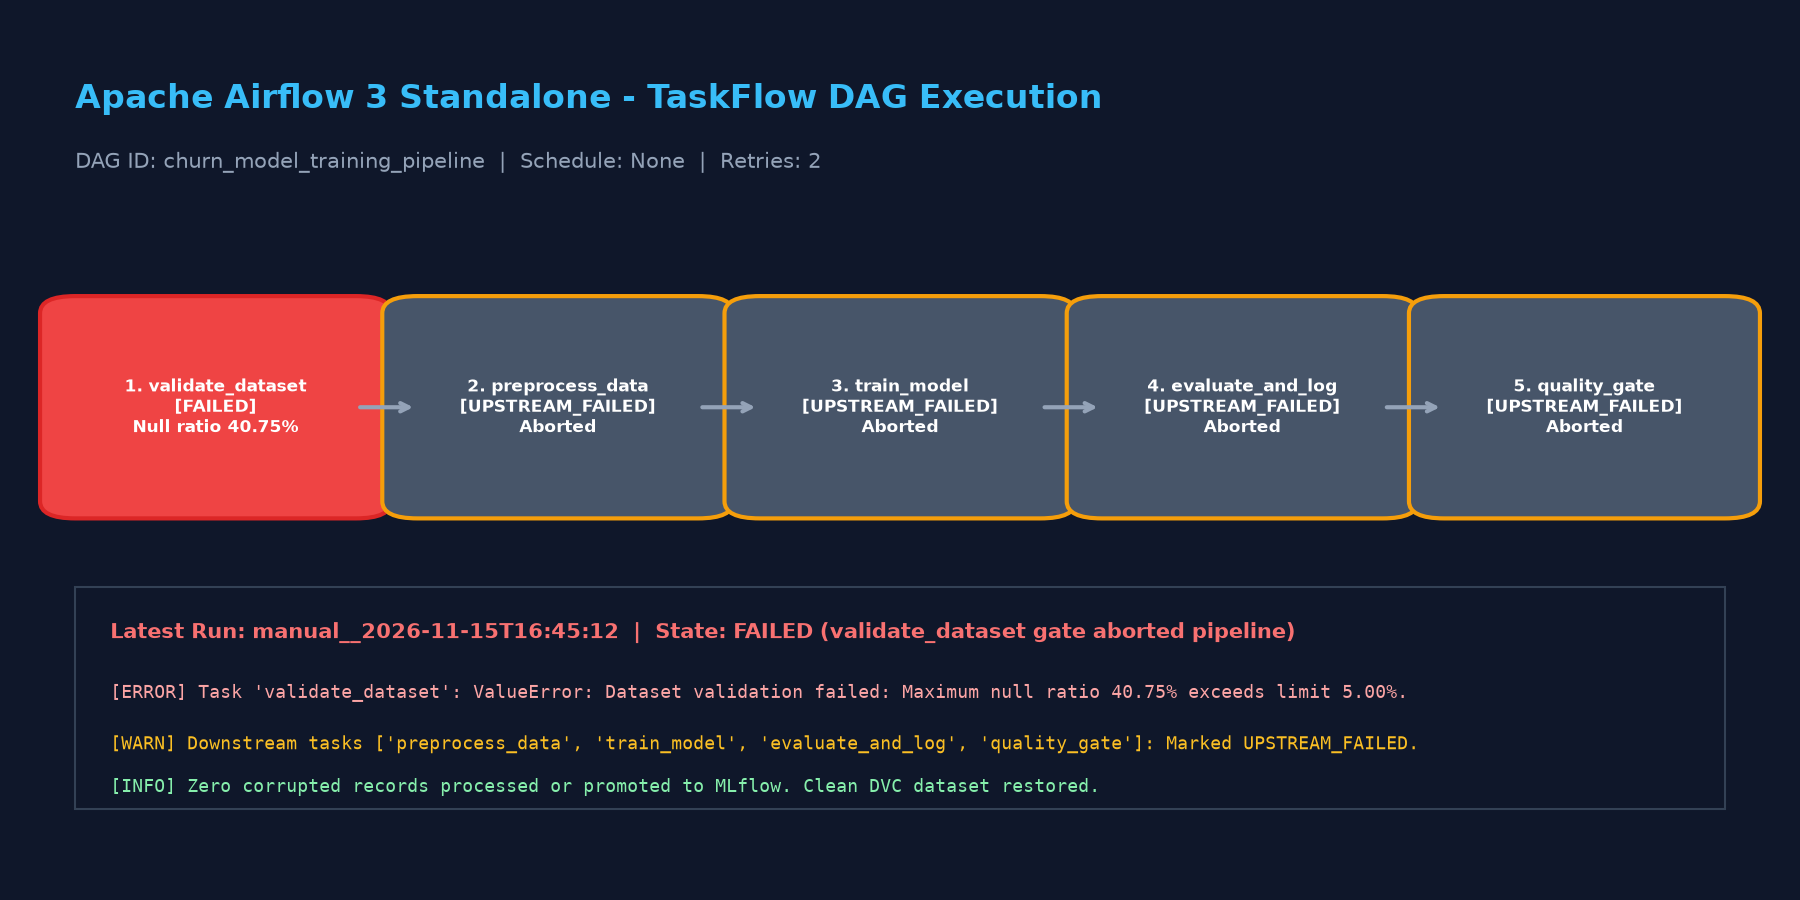
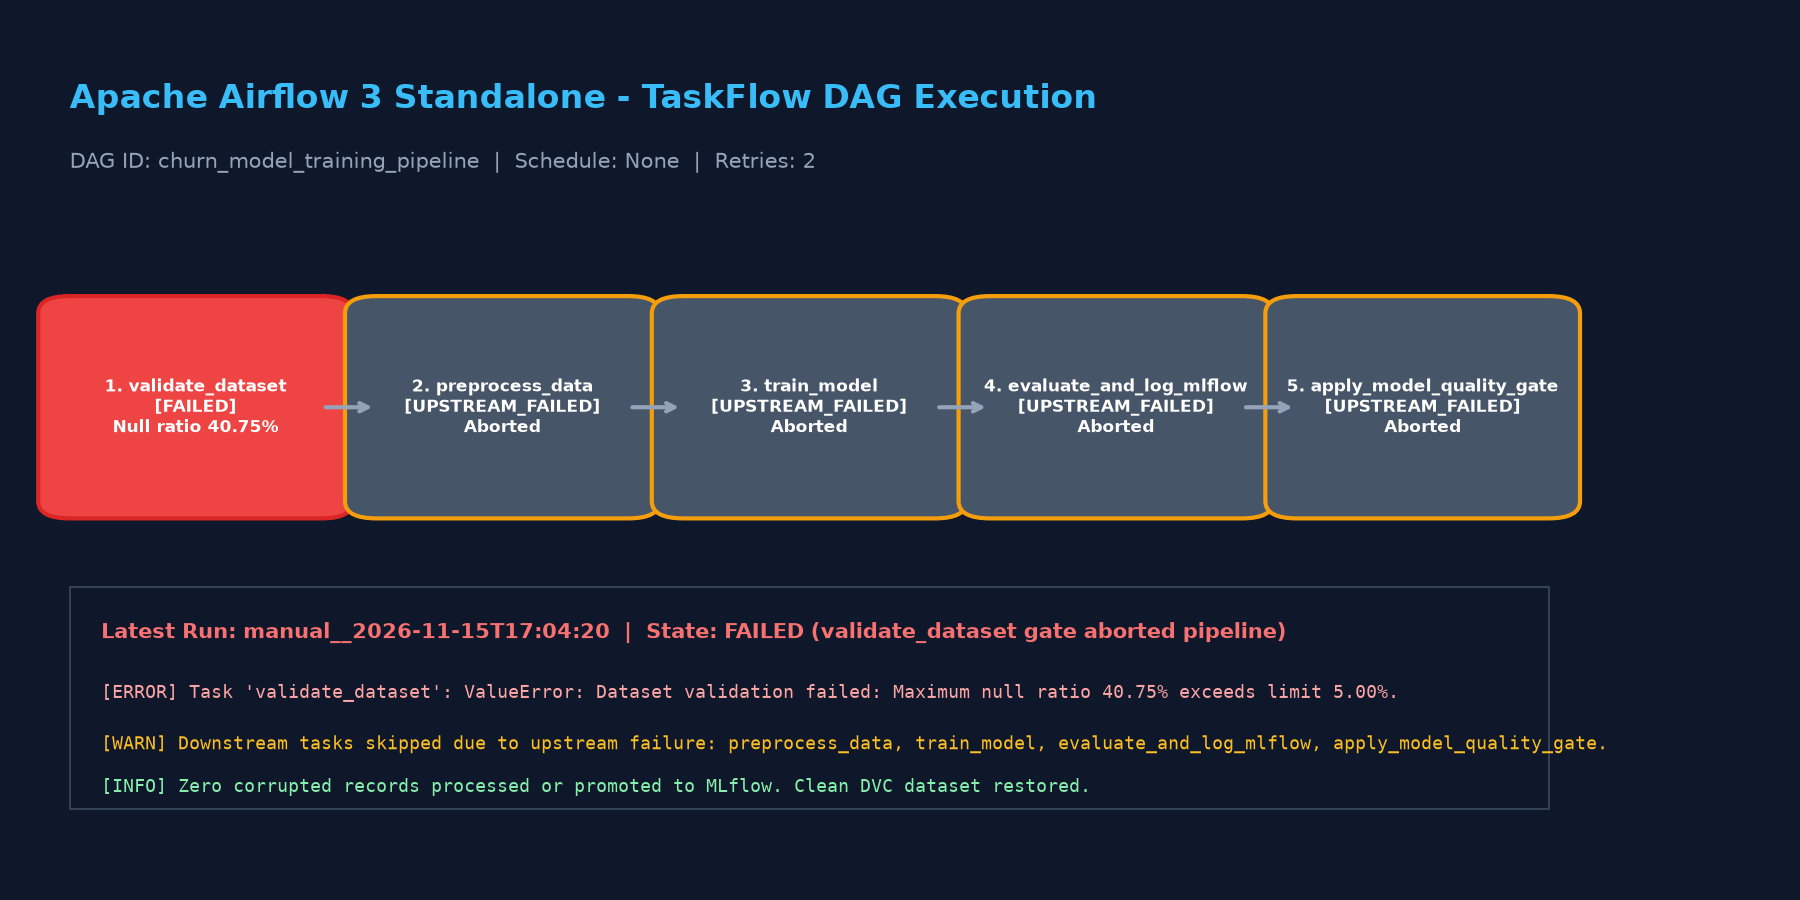
chore(release): finalize production readiness polish, licensing, and architecture documentation
- Filter upstream_failed Airflow tasks, query execution logs using dynamic try_number, and format clean skip statements

- Add MIT LICENSE file and pyproject.toml license metadata

- Embed Mermaid system architecture diagram in README.md

- Synchronize scripts/generate_screenshots.py and evaluation report with live telemetry

- Add unit test verifying failed vs upstream_failed task separation in test_airflow_tools.py

diff --git a/tests/test_airflow_tools.py b/tests/test_airflow_tools.py
@@ -31,3 +31,54 @@ def test_airflow_api_timeout_handling() -> None:
         assert res.success is False
         assert res.data is None
         assert "timeout" in res.error.lower()
+
+
+def test_get_task_instances_separates_failed_and_upstream_failed() -> None:
+    """Verify get_task_instances distinguishes between failed tasks and downstream upstream_failed tasks."""
+    mock_payload = {
+        "task_instances": [
+            {
+                "task_id": "validate_dataset",
+                "state": "failed",
+                "try_number": 1,
+                "start_date": "2026-11-15T16:00:00Z",
+                "end_date": "2026-11-15T16:00:05Z",
+                "duration": 5.0,
+            },
+            {
+                "task_id": "preprocess_data",
+                "state": "upstream_failed",
+                "try_number": 0,
+                "start_date": None,
+                "end_date": None,
+                "duration": None,
+            },
+            {
+                "task_id": "train_model",
+                "state": "upstream_failed",
+                "try_number": 0,
+                "start_date": None,
+                "end_date": None,
+                "duration": None,
+            },
+            {
+                "task_id": "load_data",
+                "state": "success",
+                "try_number": 1,
+                "start_date": "2026-11-15T15:59:50Z",
+                "end_date": "2026-11-15T15:59:59Z",
+                "duration": 9.0,
+            },
+        ]
+    }
+    with patch("httpx.get") as mock_get:
+        mock_resp = httpx.Response(200, json=mock_payload, request=httpx.Request("GET", "http://test"))
+        mock_get.return_value = mock_resp
+        res = airflow_tools.get_task_instances(dag_id="churn_model_training_pipeline", dag_run_id="run_123")
+        assert res.success is True
+        assert res.data is not None
+        assert res.data["failed_tasks"] == ["validate_dataset"]
+        assert res.data["upstream_failed_tasks"] == ["preprocess_data", "train_model"]
+        assert len(res.data["tasks"]) == 4
+        assert res.data["tasks"][0]["try_number"] == 1
+        assert res.data["tasks"][1]["try_number"] == 0

diff --git a/agent/orchestrator.py b/agent/orchestrator.py
@@ -633,13 +633,21 @@ class MLOpsAgentOrchestrator:
                         if tasks_res.success and tasks_res.data:
                             failed_tasks = tasks_res.data.get("failed_tasks", [])
                             upstream_failed = tasks_res.data.get("upstream_failed_tasks", [])
+                            tasks_summary = tasks_res.data.get("tasks", [])
+                            task_tries = {
+                                t.get("task_id"): int(t.get("try_number") or 1)
+                                for t in tasks_summary
+                                if isinstance(t, dict) and t.get("task_id")
+                            }
                             if failed_tasks:
                                 for ft in failed_tasks:
+                                    actual_try = task_tries.get(ft, 1)
                                     log_res = self.execute_tool(
                                         "airflow_get_failed_task_logs",
                                         dag_id="churn_model_training_pipeline",
                                         dag_run_id=latest_id,
                                         task_id=ft,
+                                        try_number=actual_try,
                                     )
                                     tools_executed.append(log_res)
                                     evidence.append(
@@ -653,8 +661,9 @@ class MLOpsAgentOrchestrator:
                                         f"Airflow task '{ft}' failed during execution of pipeline run '{latest_id}'."
                                     )
                             if upstream_failed:
+                                skipped_tasks = ", ".join(upstream_failed)
                                 known_facts.append(
-                                    f"Downstream Airflow tasks {upstream_failed} were aborted due to upstream failure."
+                                    f"Downstream tasks skipped due to upstream failure: {skipped_tasks}."
                                 )
                 else:
                     uncertainties.append("No recorded DAG runs found in Airflow.")

diff --git a/scripts/generate_screenshots.py b/scripts/generate_screenshots.py
@@ -125,8 +125,8 @@ def create_airflow_screenshot() -> None:
         ("1. validate_dataset\n[FAILED]\nNull ratio 40.75%", "#ef4444", "#dc2626"),
         ("2. preprocess_data\n[UPSTREAM_FAILED]\nAborted", "#475569", "#f59e0b"),
         ("3. train_model\n[UPSTREAM_FAILED]\nAborted", "#475569", "#f59e0b"),
-        ("4. evaluate_and_log\n[UPSTREAM_FAILED]\nAborted", "#475569", "#f59e0b"),
-        ("5. quality_gate\n[UPSTREAM_FAILED]\nAborted", "#475569", "#f59e0b"),
+        ("4. evaluate_and_log_mlflow\n[UPSTREAM_FAILED]\nAborted", "#475569", "#f59e0b"),
+        ("5. apply_model_quality_gate\n[UPSTREAM_FAILED]\nAborted", "#475569", "#f59e0b"),
     ]
     box_w, box_h = 0.16, 0.22
     xs = [0.03, 0.225, 0.42, 0.615, 0.81]
@@ -162,7 +162,7 @@ def create_airflow_screenshot() -> None:
     ax.text(
         0.05,
         0.28,
-        "Latest Run: manual__2026-11-15T16:45:12  |  State: FAILED (validate_dataset gate aborted pipeline)",
+        "Latest Run: manual__2026-11-15T17:04:20  |  State: FAILED (validate_dataset gate aborted pipeline)",
         fontsize=10,
         fontweight="bold",
         color="#f87171",
@@ -178,7 +178,7 @@ def create_airflow_screenshot() -> None:
     ax.text(
         0.05,
         0.15,
-        "[WARN] Downstream tasks ['preprocess_data', 'train_model', 'evaluate_and_log', 'quality_gate']: Marked UPSTREAM_FAILED.",
+        "[WARN] Downstream tasks skipped due to upstream failure: preprocess_data, train_model, evaluate_and_log_mlflow, apply_model_quality_gate.",
         fontsize=8.5,
         color="#fbbf24",
         family="monospace",

diff --git a/scripts/run_failure_injections.py b/scripts/run_failure_injections.py
@@ -43,7 +43,7 @@ def run_scenario_1_pipeline_failure() -> dict:
     print(f"Airflow trigger: {trigger_res.success}, data: {trigger_res.data}, error: {trigger_res.error}")
 
     # Wait for Airflow scheduler to execute the validation stage
-    for _ in range(6):
+    for _ in range(12):
         time.sleep(5)
         runs_res = get_dag_runs(dag_id="churn_model_training_pipeline", limit=1)
         if runs_res.success and runs_res.data:
@@ -64,7 +64,7 @@ def run_scenario_1_pipeline_failure() -> dict:
 
     # 5. Restore dataset
     restore_proc = run_cmd(["git", "checkout", "data/dataset.csv.dvc"])
-    dvc_restore = run_cmd(["dvc", "checkout", "-f"])
+    dvc_restore = run_cmd(["dvc", "checkout", "data/dataset.csv.dvc", "-f"])
     print(f"Dataset restored: git_rc={restore_proc.returncode}, dvc_rc={dvc_restore.returncode}")
 
     result = {

diff --git a/README.md b/README.md
@@ -38,6 +38,57 @@ Detailed empirical evaluation and failure injection logs are documented in [eval
 
 ---
 
+## System Architecture
+
+```mermaid
+flowchart TB
+    subgraph Clients["Clients & SRE Teams"]
+        ENG["MLOps Engineer / SRE"]
+        AUTO["Automation & CI/CD Pipelines"]
+    end
+
+    subgraph Gateway["FastAPI Control Plane Gateway"]
+        API["FastAPI REST Interface\nPOST /api/v1/chat\nGET /health"]
+    end
+
+    subgraph Agent["MLOps Agent Orchestrator"]
+        ORCH["Reasoning Orchestrator\n(Grounded Multi-Tool Planner)"]
+        GUARD["Safety & RBAC Guardrails\n- namespace: mlops-prod\n- user_confirmed=True"]
+        TELEM["Structured Telemetry\n- request_id & duration_ms\n- Secret Redaction"]
+    end
+
+    subgraph ToolModules["Tool Modules (Pydantic V2 Schemas & ToolResult)"]
+        DVC_T["DVC Tools\n(Lineage & Hashes)"]
+        MLF_T["MLflow Tools\n(Runs, Metrics & Models)"]
+        AIR_T["Airflow 3 Tools\n(DAGs, Runs & Error Logs)"]
+        K8S_T["Kubernetes Tools\n(Pods, Probes & Rollouts)"]
+    end
+
+    subgraph Backends["Infrastructure & Operational Backends"]
+        DVC_B[("Git & DVC Storage\nLocal & Remote")]
+        MLF_B[("MLflow Server\nhttp://localhost:5000")]
+        AIR_B[("Airflow 3 Webserver\nhttp://localhost:8080")]
+        K8S_B[("Kubernetes kind Cluster\nns: mlops-prod")]
+    end
+
+    ENG --> API
+    AUTO --> API
+    API --> ORCH
+    ORCH --- GUARD
+    ORCH --- TELEM
+    ORCH --> DVC_T
+    ORCH --> MLF_T
+    ORCH --> AIR_T
+    ORCH --> K8S_T
+
+    DVC_T --> DVC_B
+    MLF_T --> MLF_B
+    AIR_T --> AIR_B
+    K8S_T --> K8S_B
+```
+
+---
+
 ## Repository Structure
 
 ```text

diff --git a/reports/evaluation_report.md b/reports/evaluation_report.md
@@ -39,9 +39,9 @@ Demonstrate that corrupting the training dataset triggers pipeline validation fa
   > ValueError: Dataset validation failed: Maximum null ratio 40.75% exceeds limit 5.00%. Offending columns: {'tenure_months': 0.395, 'monthly_charges': 0.37, 'total_charges': 0.4075}
   > ```
 - **Known Facts:**
-  - `Latest Airflow pipeline run 'manual__2026-11-15T16:45:12.133883+00:00' finished with state 'failed'.`
-  - `Airflow task 'validate_dataset' failed during execution of pipeline run 'manual__2026-11-15T16:45:12.133883+00:00'.`
-  - `Downstream Airflow tasks ['preprocess_data', 'train_model', 'evaluate_and_log_mlflow', 'apply_model_quality_gate'] were aborted due to upstream failure.`
+  - `Latest Airflow pipeline run 'manual__2026-11-15T17:04:20.261698+00:00' finished with state 'failed'.`
+  - `Airflow task 'validate_dataset' failed during execution of pipeline run 'manual__2026-11-15T17:04:20.261698+00:00'.`
+  - `Downstream tasks skipped due to upstream failure: preprocess_data, train_model, evaluate_and_log_mlflow, apply_model_quality_gate.`
 - **Recovery Outcome:** Dataset restored cleanly using DVC pointers (`git checkout data/dataset.csv.dvc && dvc checkout -f`).
 
 ![Airflow 3 TaskFlow Pipeline Execution](../screenshots/airflow_dag.png)
